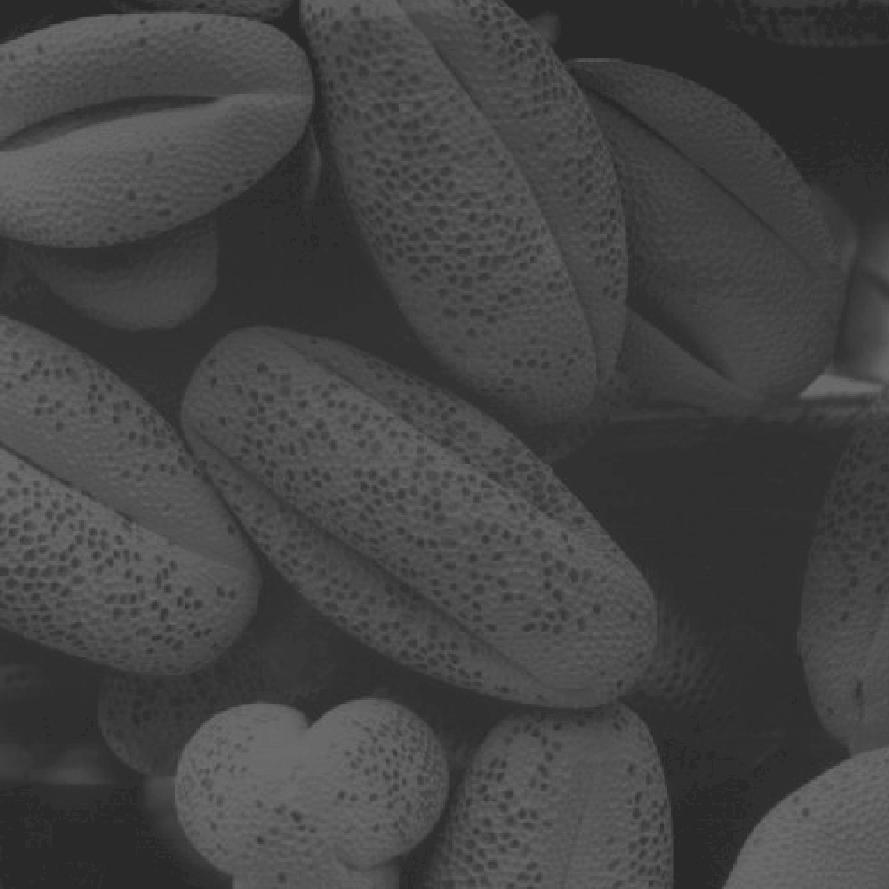
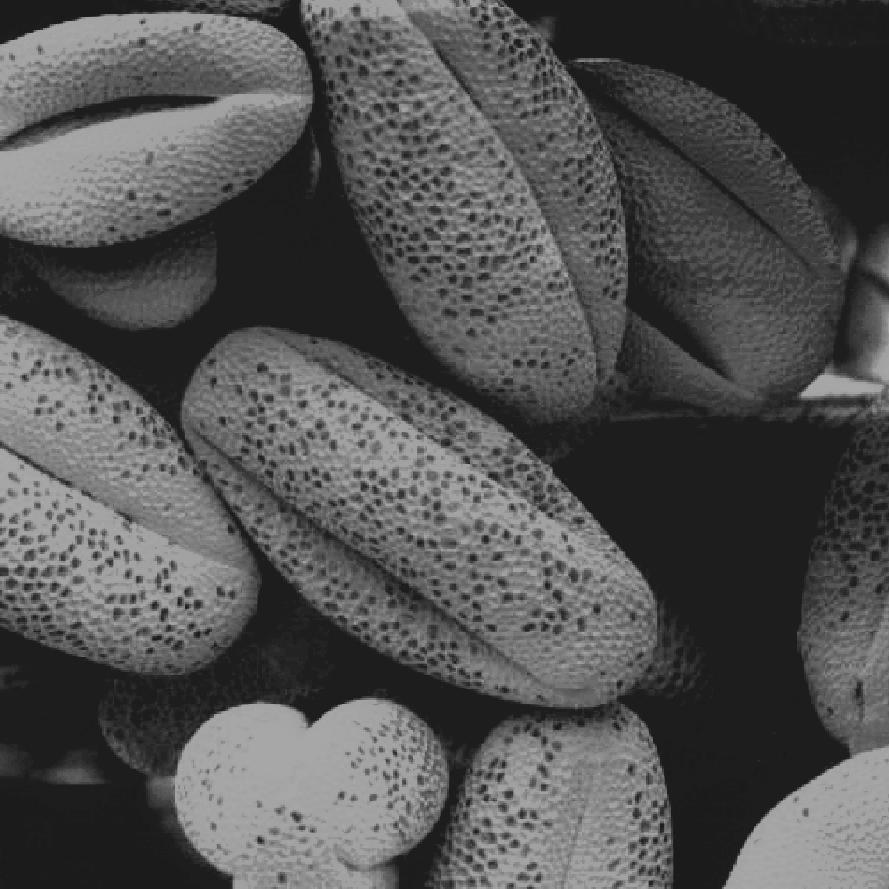
REFACTOR: Improving the Input Parameters at the Contrast Streching Image Processing Matlab Code

diff --git a/Image Processing/02 - Contrast Stretching/main.m b/Image Processing/02 - Contrast Stretching/main.m
@@ -6,10 +6,10 @@ result = zeros(size(input_image), "uint8");
 
 % 3. Defina as posições dos pontos (r1, s1) e (r2, s2).
 L = 255; % Número de níveis de cinza
-r1 = L/3; % Ponto x final do segmento 1 e ponto x inicial do segmento 2
-s1 = L/8; % Ponto y final do segmento 1 e ponto y inicial do segmento 2
-r2 = (10*L)/12; % Ponto x final do segmento 2 e ponto x inicial do segmento 3
-s2 = (14*L)/16; % Ponto y final do segmento 2 e ponto y inicial do segmento 3
+r1 = 100; % Ponto x final do segmento 1 e ponto x inicial do segmento 2
+s1 = 30; % Ponto y final do segmento 1 e ponto y inicial do segmento 2
+r2 = 125; % Ponto x final do segmento 2 e ponto x inicial do segmento 3
+s2 = 160; % Ponto y final do segmento 2 e ponto y inicial do segmento 3
 
 % Inicializa a transformação de intensidade
 T = zeros(1, L+1); % Vetor de 0 a 255
